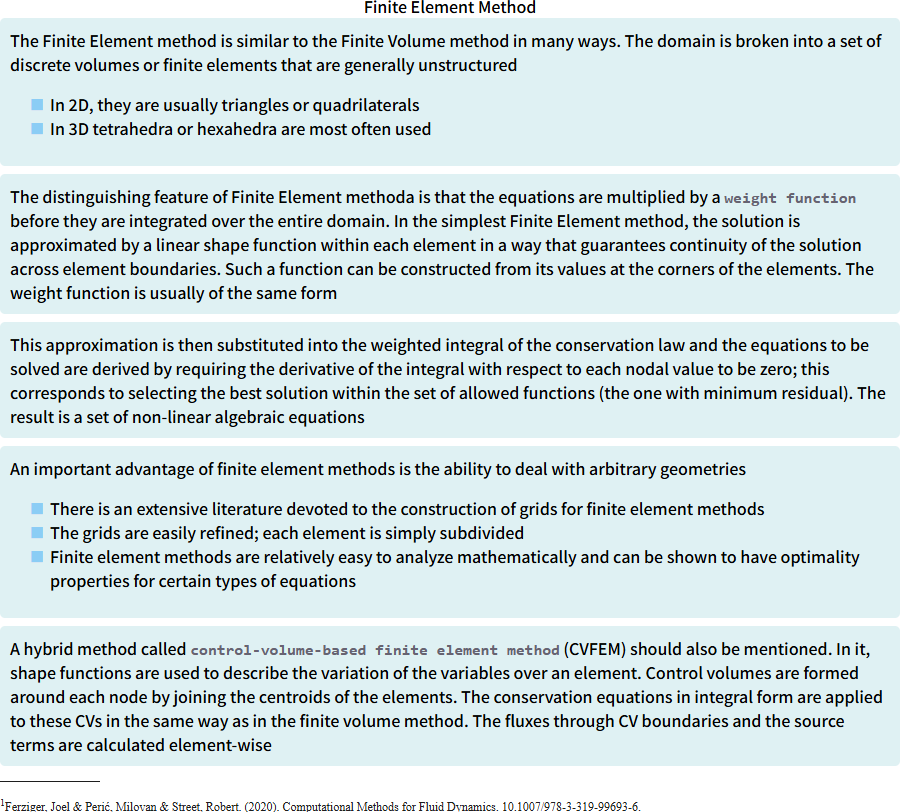
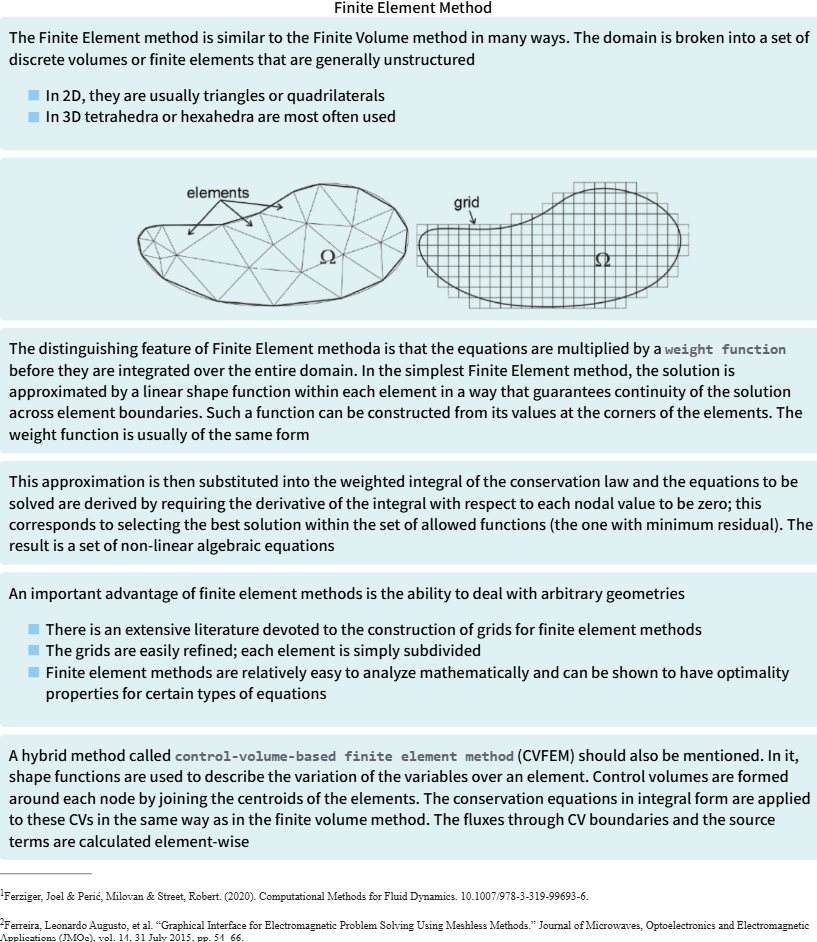
Update

diff --git a/Lecture4ASlide35.html b/Lecture4ASlide35.html
@@ -164,6 +164,9 @@ into a set of discrete volumes or finite elements that are generally unstructure
 </ul>
 </div>
 <div class="description">
+<img src="Figures/Lecture4A_ElementGrid.png" alt="ElementGrid" style="max-width: 69%; height: auto; display: block; margin: auto;">      
+</div>
+<div class="description">
 The distinguishing feature of Finite Element methoda is that the equations
 are multiplied by a <span class='sql'>weight function</span> before they are integrated over the entire domain.
 In the simplest Finite Element method, the solution is approximated by a linear shape function
@@ -204,6 +207,9 @@ through CV boundaries and the source terms are calculated element-wise
             <hr class="footnote-line">
             <p class="footnote">
                 <sup>1</sup>Ferziger, Joel & Perić, Milovan & Street, Robert. (2020). Computational Methods for Fluid Dynamics. 10.1007/978-3-319-99693-6.
+            </p>
+            <p class="footnote">
+                <sup>2</sup>Ferreira, Leonardo Augusto, et al. “Graphical Interface for Electromagnetic Problem Solving Using Meshless Methods.” Journal of Microwaves, Optoelectronics and Electromagnetic Applications (JMOe), vol. 14, 31 July 2015, pp. 54–66.
             </p>
         </div>
 
